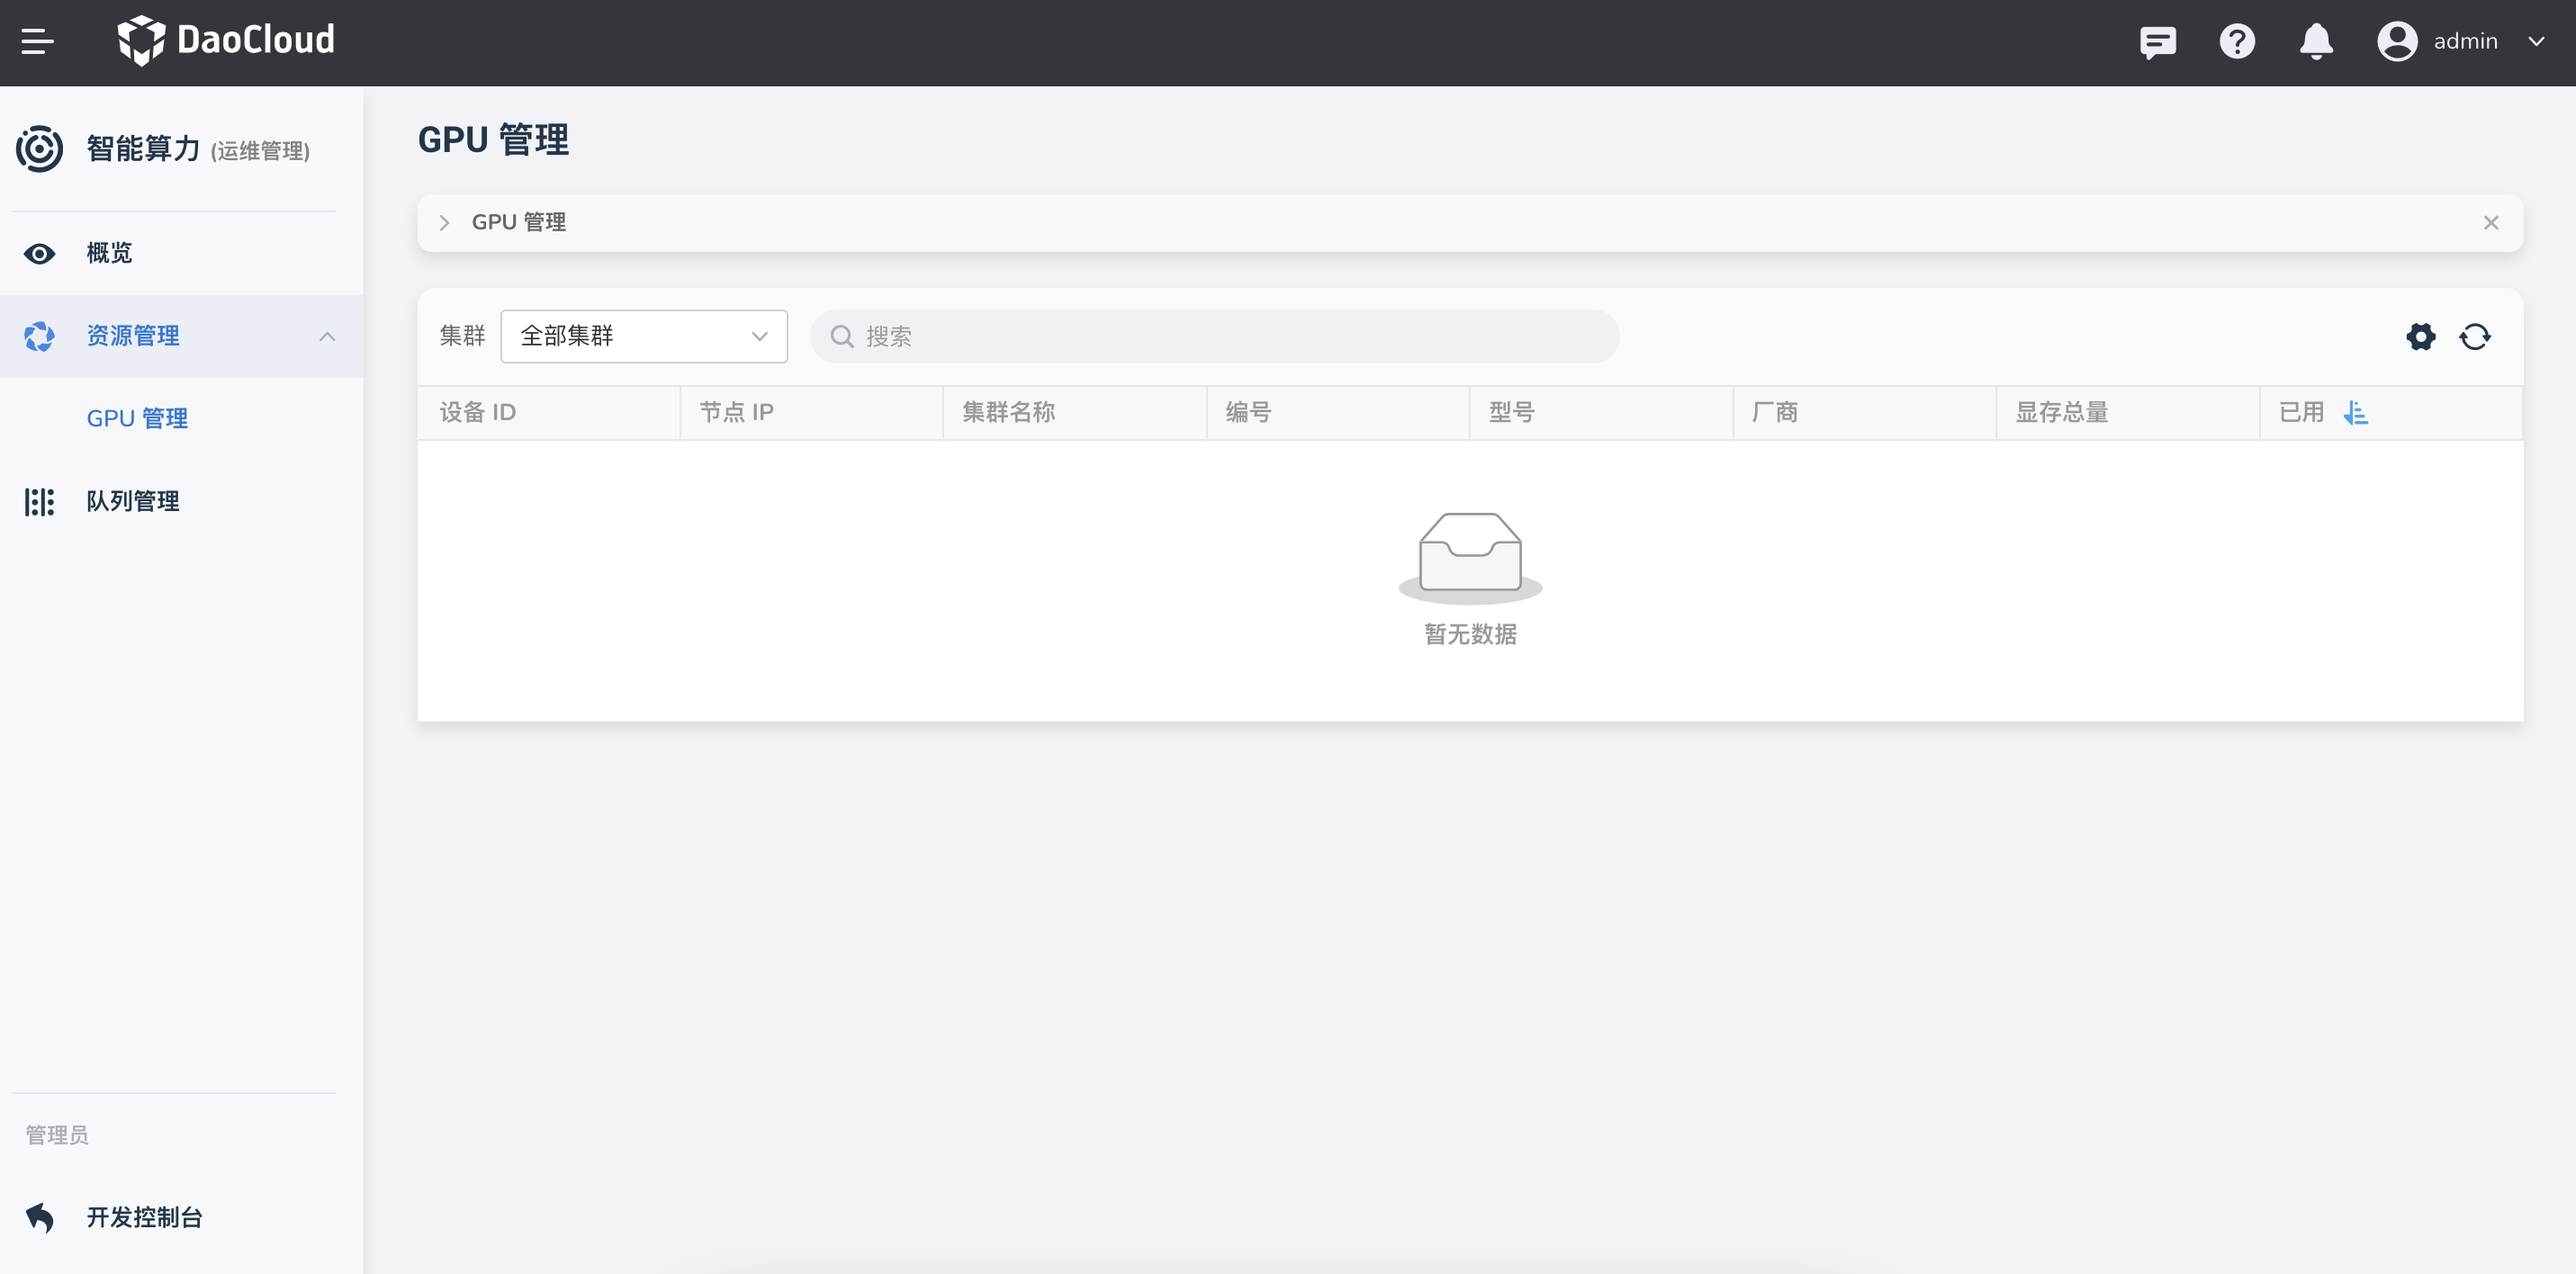
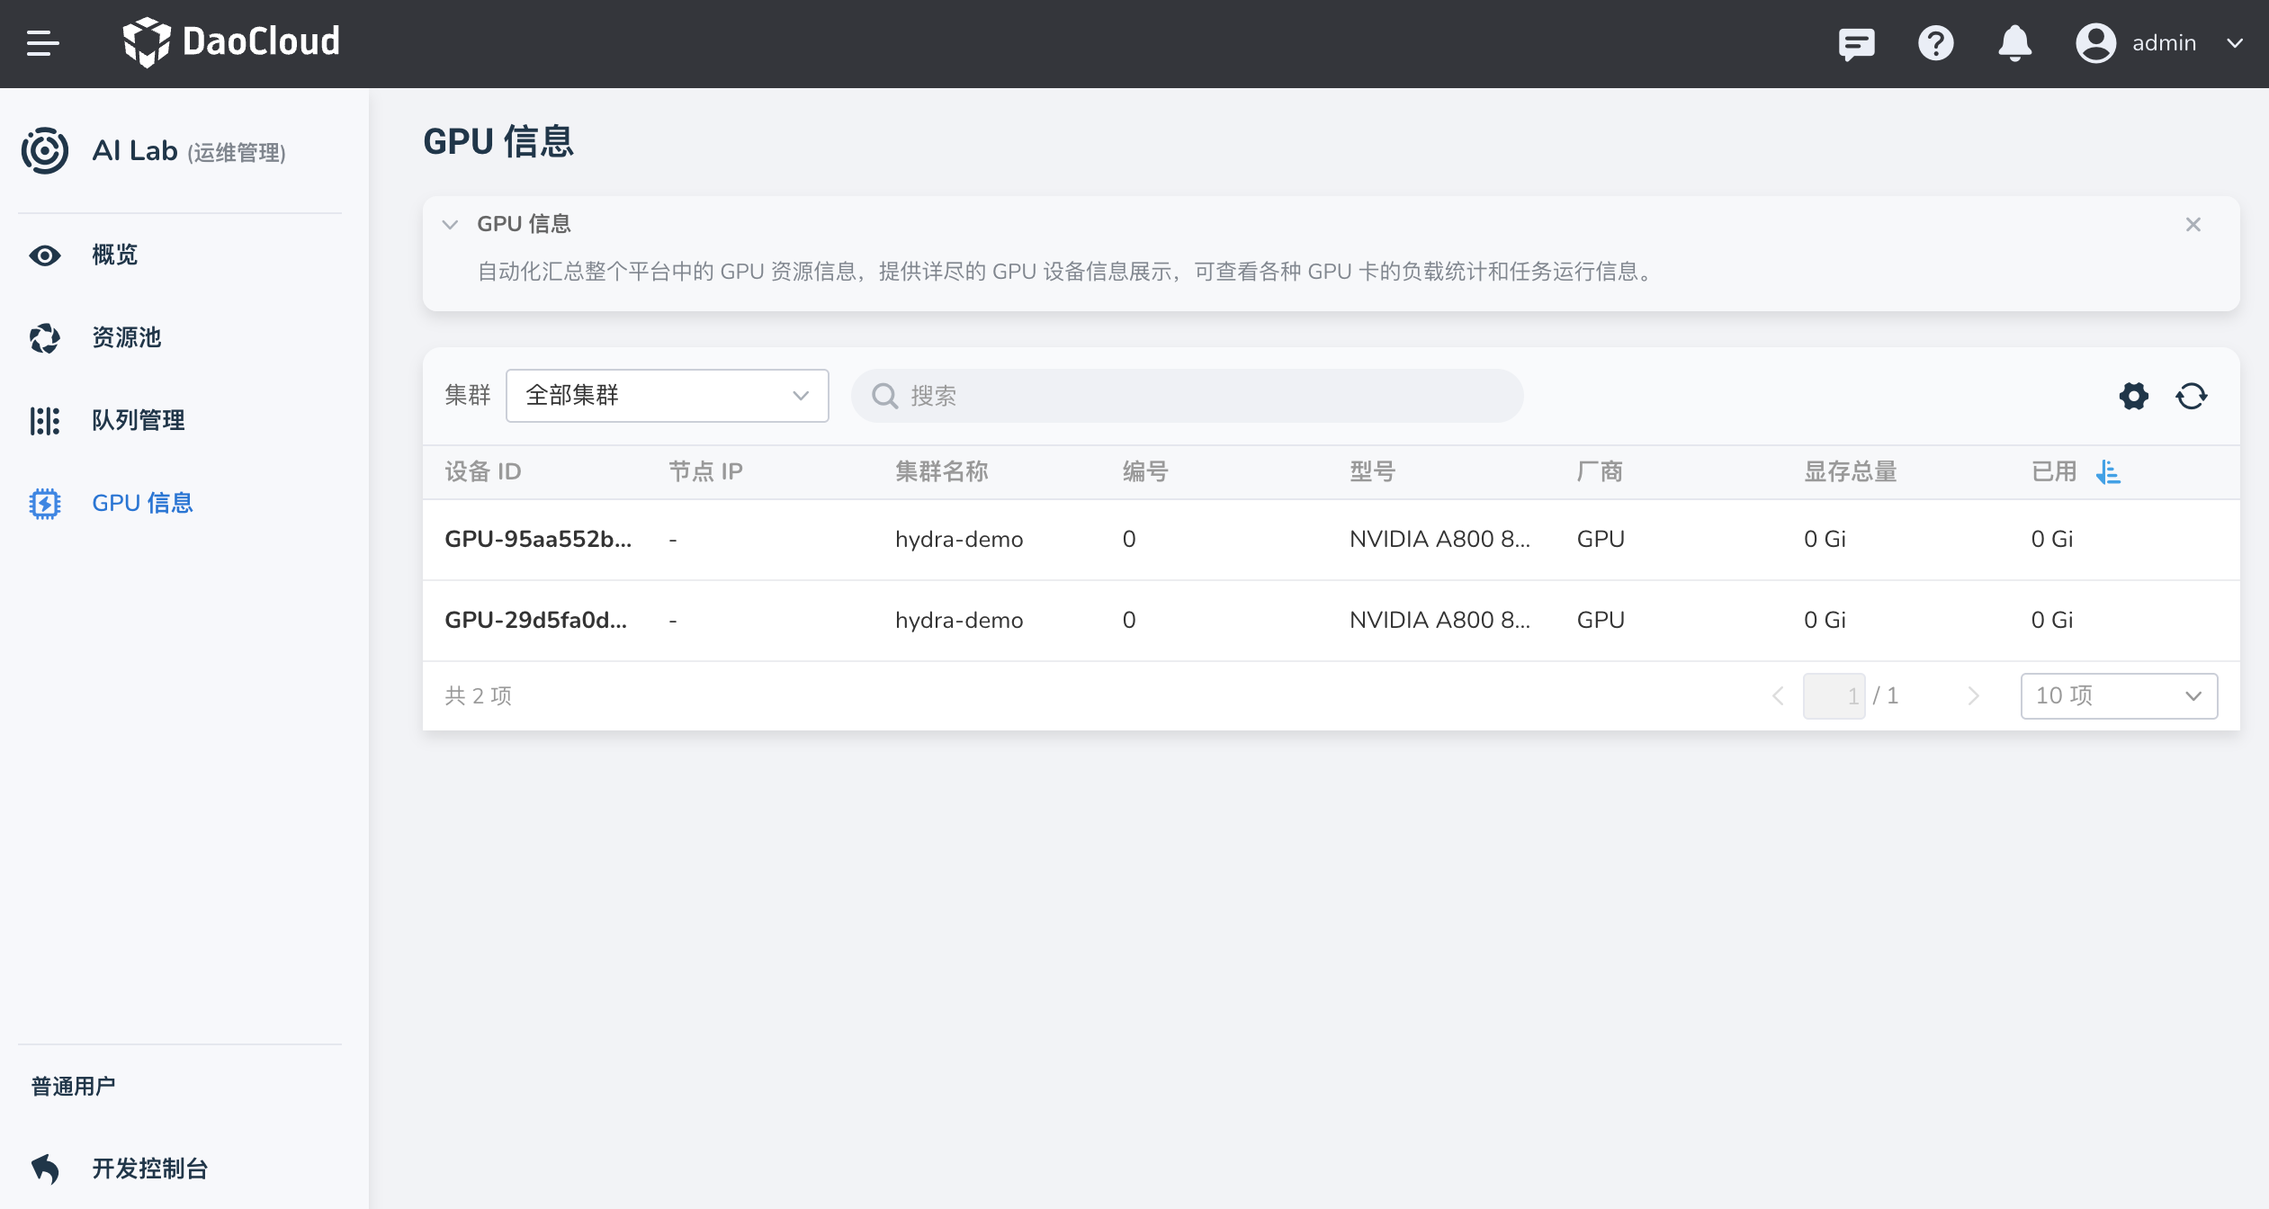
update baize/oam/gpu.md (#6930)

diff --git a/docs/zh/docs/baize/oam/resource/create.md b/docs/zh/docs/baize/oam/resource/create.md
@@ -1,23 +1,30 @@
+---
+hide:
+  - toc
+---
+
 # 创建资源池
 
 资源池用于定义集群中可用的计算资源，并通过将工作负载与特定节点类型关联，实现细粒度的资源管理。
 
-本文介绍创建资源池操作步骤。
+以下是创建资源池的步骤。
 
 1. 进入 **运维管理** 视图，选择左侧菜单 **资源池**，点击资源池列表右上角的 **创建资源池** 按钮。
 
     ![创建资源池](../../images/create-resource-01.png)
 
-1. 根据需求，填写表单信息，然后点击 **确定** 。
-
-    - 名称：2-63 个字符，必须由小写字母、数字字符或“-”组成，并且必须以字母开头及字母或数字字符结尾；
-    - 集群：资源池节点所在集群；
-    - 选择节点：可以根据 GPU 厂商或节点名称搜索节点；
-    - 节点拓扑：描述了 Kubernetes 集群中节点在数据中心中的物理或逻辑层级结构，例如区块、机架或主机。通过定义拓扑，可以优化作业调度，确保 Pod 尽可能运行在最优网络通信链路的节点上，从而降低相关 Pod 间的网络延迟，适合 AI/ML 训练或高性能计算任务。
-    - 容忍度：允许调度器调度带有对应污点的 Pod。
-    - 污点：使节点能够排斥一类特定的 Pod。污点和容忍度相互配合，可以用来避免 Pod 被分配到不合适的节点上。
+1. 根据需求，填写表单信息，然后点击 **确定**
 
     ![填写参数](../../images/create-resource-02.png)
+
+    | 字段       | 说明 |
+    |------------|------|
+    | 名称 | 2-63 个字符，必须由小写字母、数字字符或 “-” 组成，并且必须以字母开头、以字母或数字结尾。 |
+    | 集群 | 资源池节点所在集群。 |
+    | 选择节点 | 可以根据 GPU 厂商或节点名称搜索节点。 |
+    | 节点拓扑 | 描述 Kubernetes 集群中节点在数据中心的物理或逻辑层级结构（如区块、机架、主机）。通过定义拓扑，可优化调度，使 Pod 尽可能运行在最佳网络链路的节点上，从而降低网络延迟，适合 AI/ML 训练或高性能计算任务。 |
+    | 容忍度 | 允许调度器将带有对应污点的 Pod 调度到节点上。 |
+    | 污点 | 使节点能够排斥特定类型的 Pod。污点与容忍度结合，可避免 Pod 被分配到不合适的节点。 |
 
 1. 屏幕提示创建成功，返回资源池管理列表。点击列表右侧的 **┇** ，可以执行更新、删除等更多操作。
 

diff --git a/docs/zh/docs/baize/oam/gpu.md b/docs/zh/docs/baize/oam/gpu.md
@@ -10,3 +10,7 @@ hide:
 进入 **运维管理** 后，点击左侧导航栏的 **GPU 信息**，可以查看 GPU 卡和各种训练任务。
 
 ![GPU 信息](../images/resource.png)
+
+点击某个 **设备 ID** ，可以查看 GPU 的详情信息。
+
+![GPU 详情](../images/gpu-detail.png)
